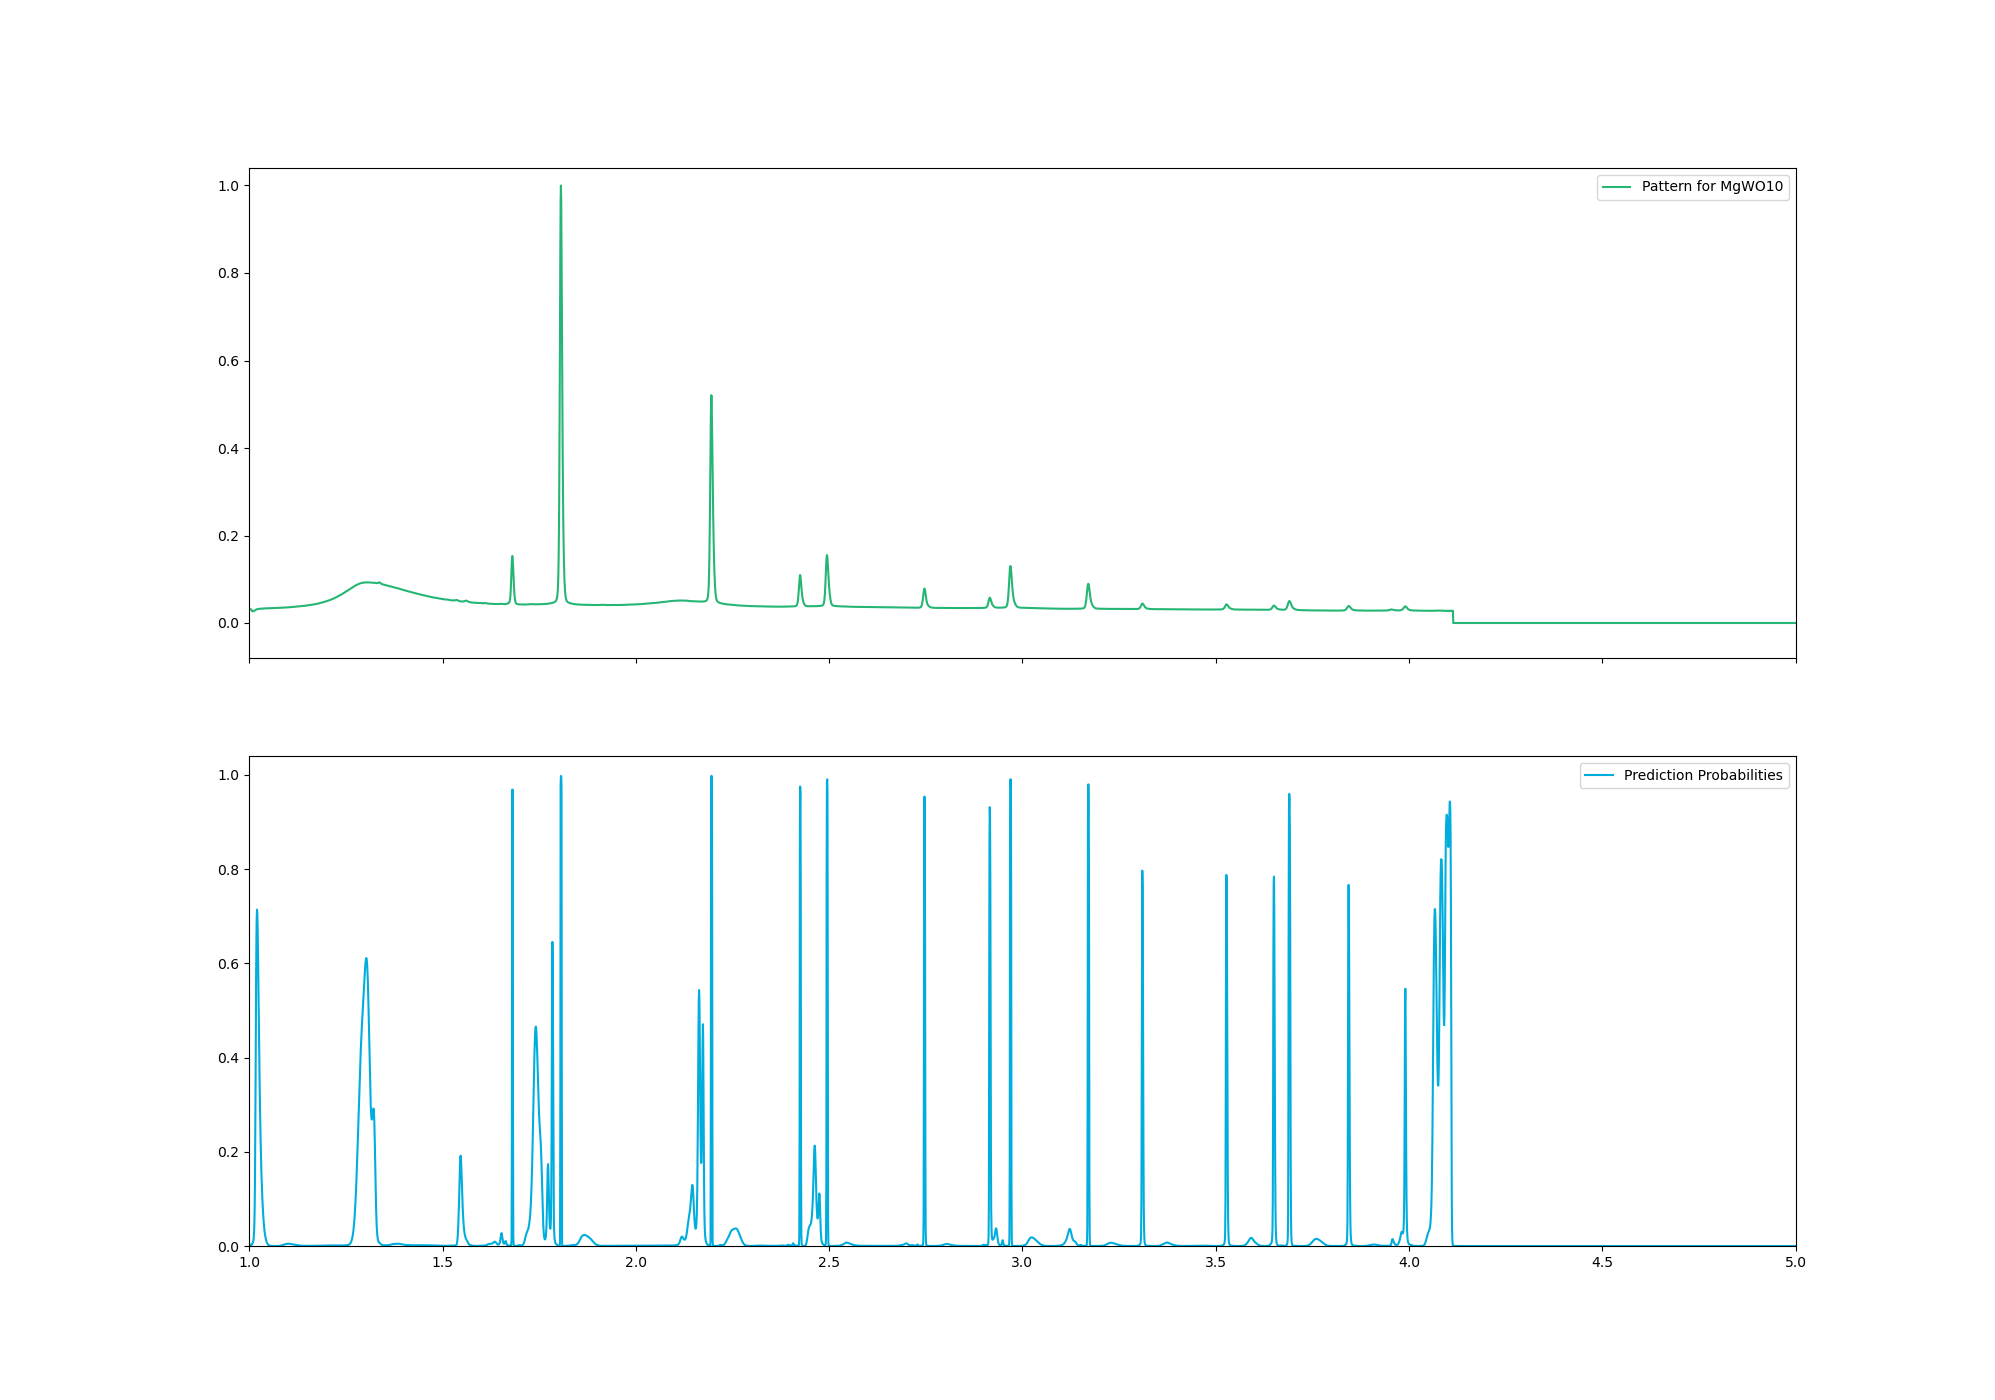
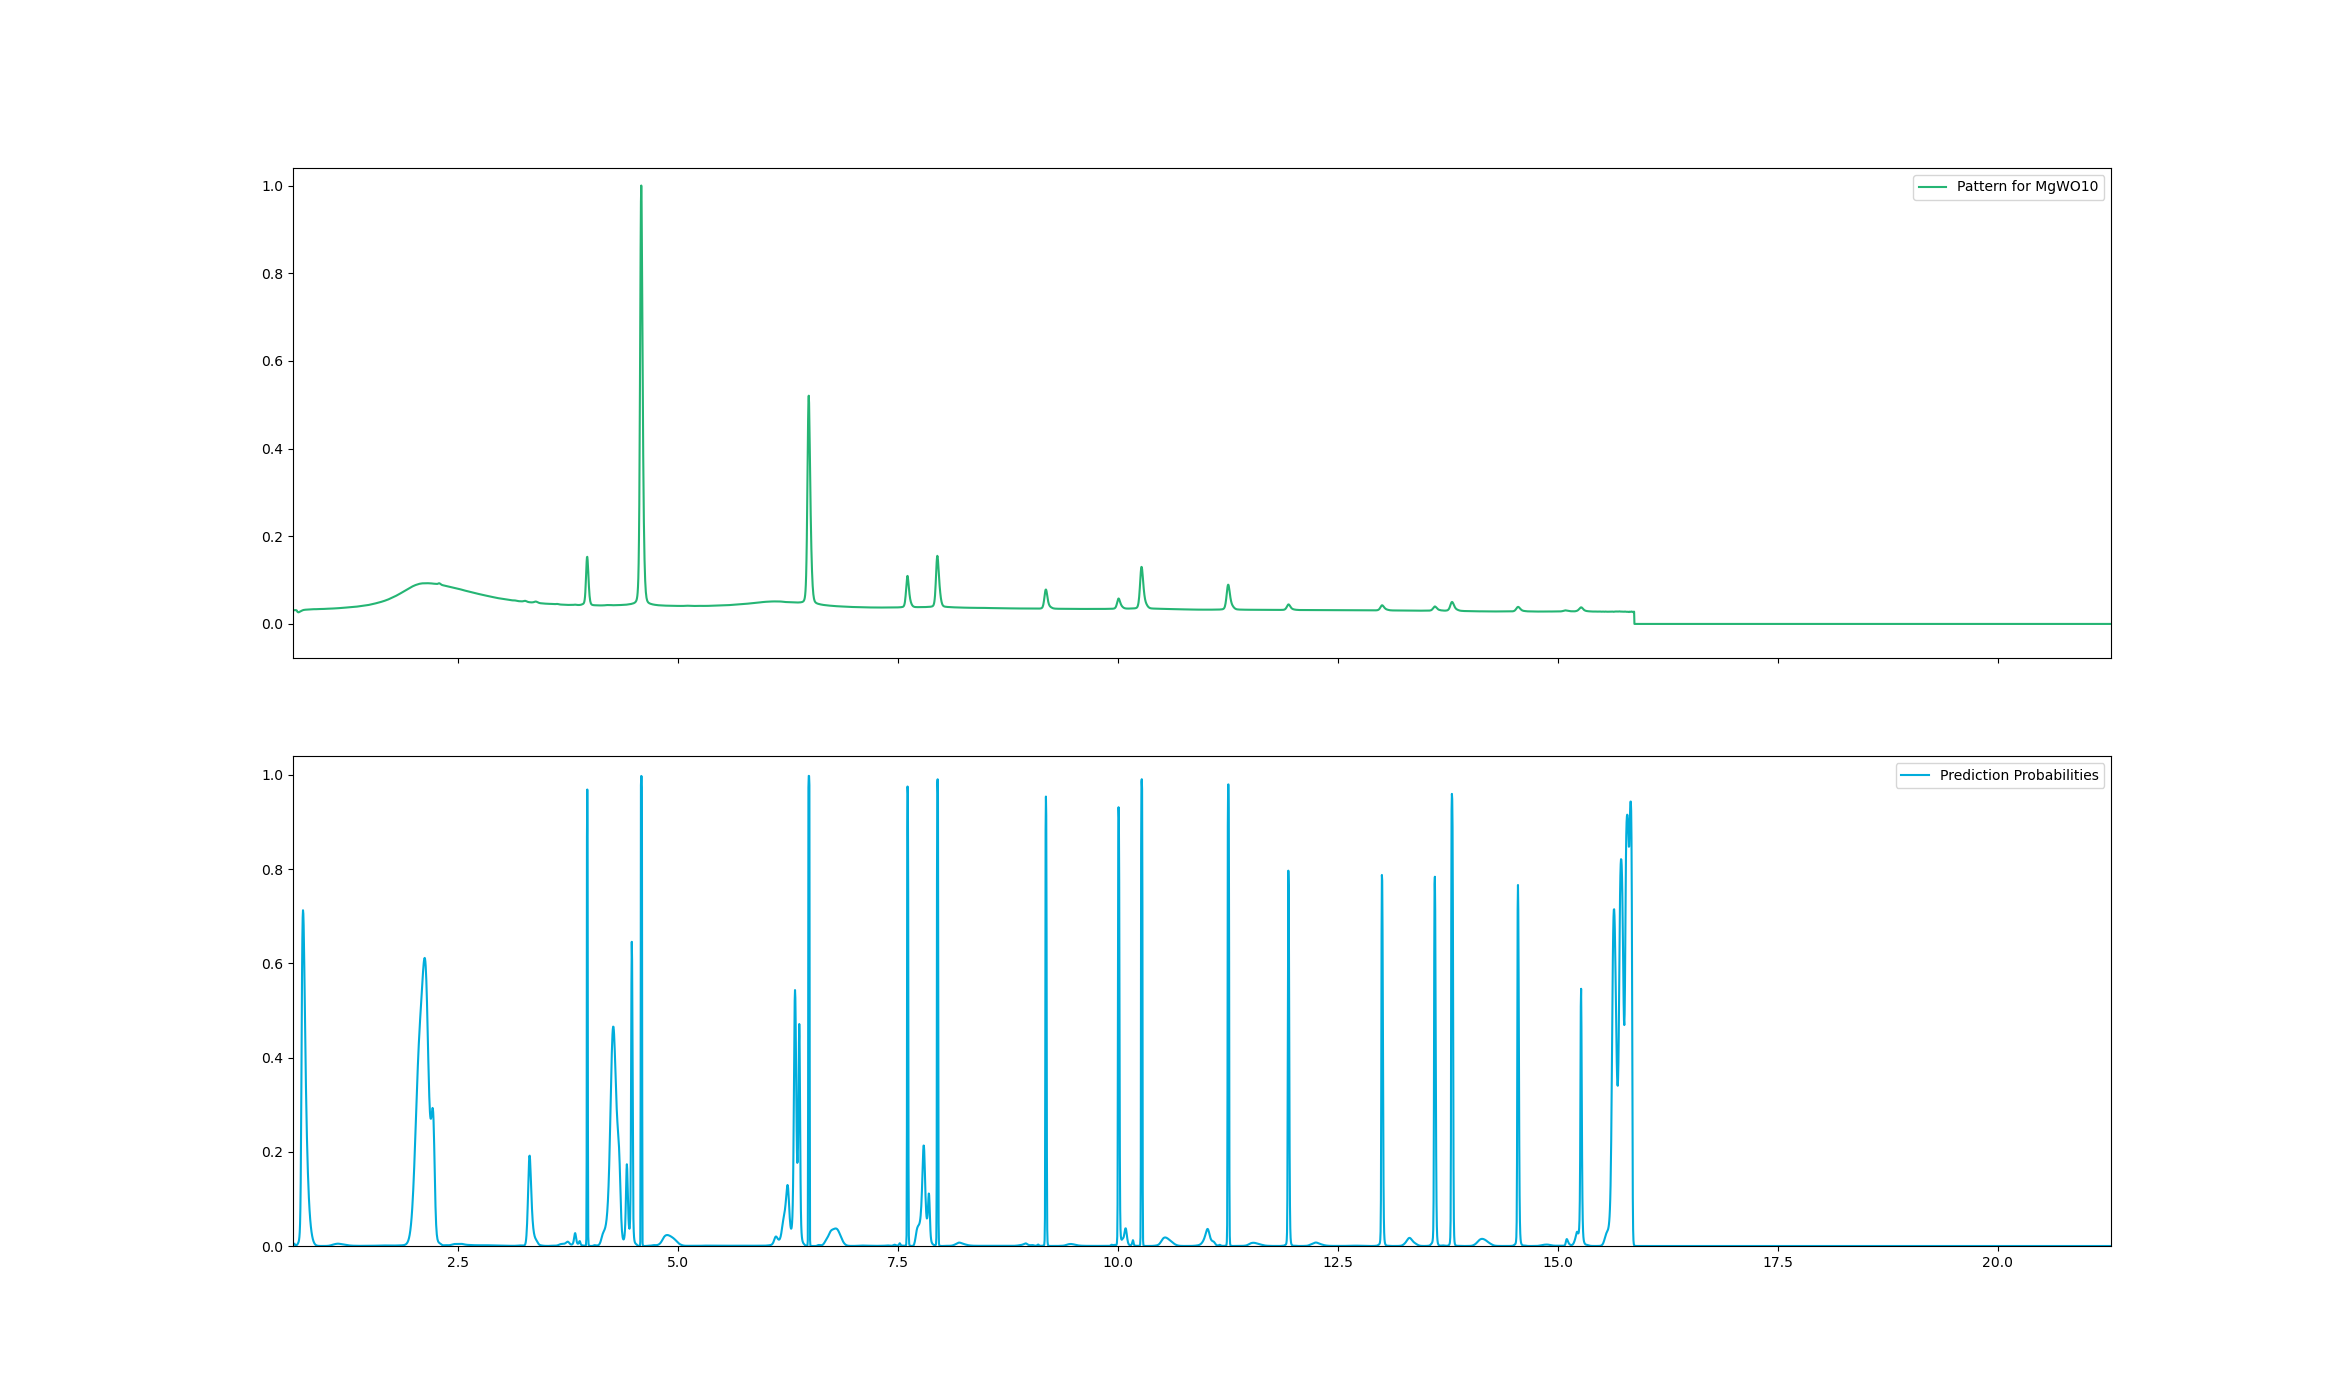
Made updates to files, figures.

diff --git a/RNN_files/eval_exp.py b/RNN_files/eval_exp.py
@@ -76,8 +76,13 @@ tth_exp_unpadded = np.array(tth_exp_unpadded)
 inten_exp_unpadded = np.array(inten_exp_unpadded)
 
 inten_exp = np.zeros((11837, ))
+tth_exp = np.zeros((11837, ))
+# tth_exp = np.linspace(1,10,11837)
 
-tth_exp = np.linspace(1,10,11837)
+tth_exp[:tth_exp_unpadded.shape[0]] = tth_exp_unpadded # fill the final x array with all the actual tth values
+step = tth_exp_unpadded[1] - tth_exp_unpadded[0] # now figure out the step size for the tth values
+tth_exp[tth_exp_unpadded.shape[0]:] = tth_exp_unpadded[-1] + step * np.arange(1, 11837 - tth_exp_unpadded.shape[0] + 1) # fill the rest of the final x array with fake x values using same step size; this removes all the zeros
+
 print(inten_exp_unpadded.shape)
 
 for i in range(inten_exp_unpadded.shape[0]):
@@ -142,10 +147,10 @@ def vis_subplots():
             ax.set_ylim(0, 1.04)
         ax.legend()
         
-        if filename_str == 'LaB6_argonne':
-            ax.set_xlim(1,10)
-        else:
-            ax.set_xlim(1,5)
+        # if filename_str == 'LaB6_argonne':
+        #     ax.set_xlim(1,10)
+        # else:
+        #     ax.set_xlim(1,5)
 
     # plt.savefig(f'saved_figures/avg_{filename_str}_exp_trainingweights_{num_weights}.png')
     plt.show()

diff --git a/RNN_files/calc_test_accuracy.py b/RNN_files/calc_test_accuracy.py
@@ -1,9 +1,12 @@
 import numpy as np
 import xarray as xr
 import matplotlib.pyplot as plt
+import os, sys
+
+training_set = int(sys.argv[1])
 
 # Open and read file
-file = 'saved_results_only_analytical_9.nc'
+file = f'saved_results_only_analytical_{training_set}.nc'
 ds = xr.open_dataset(file)
 
 true_y = ds['true_y'].values
